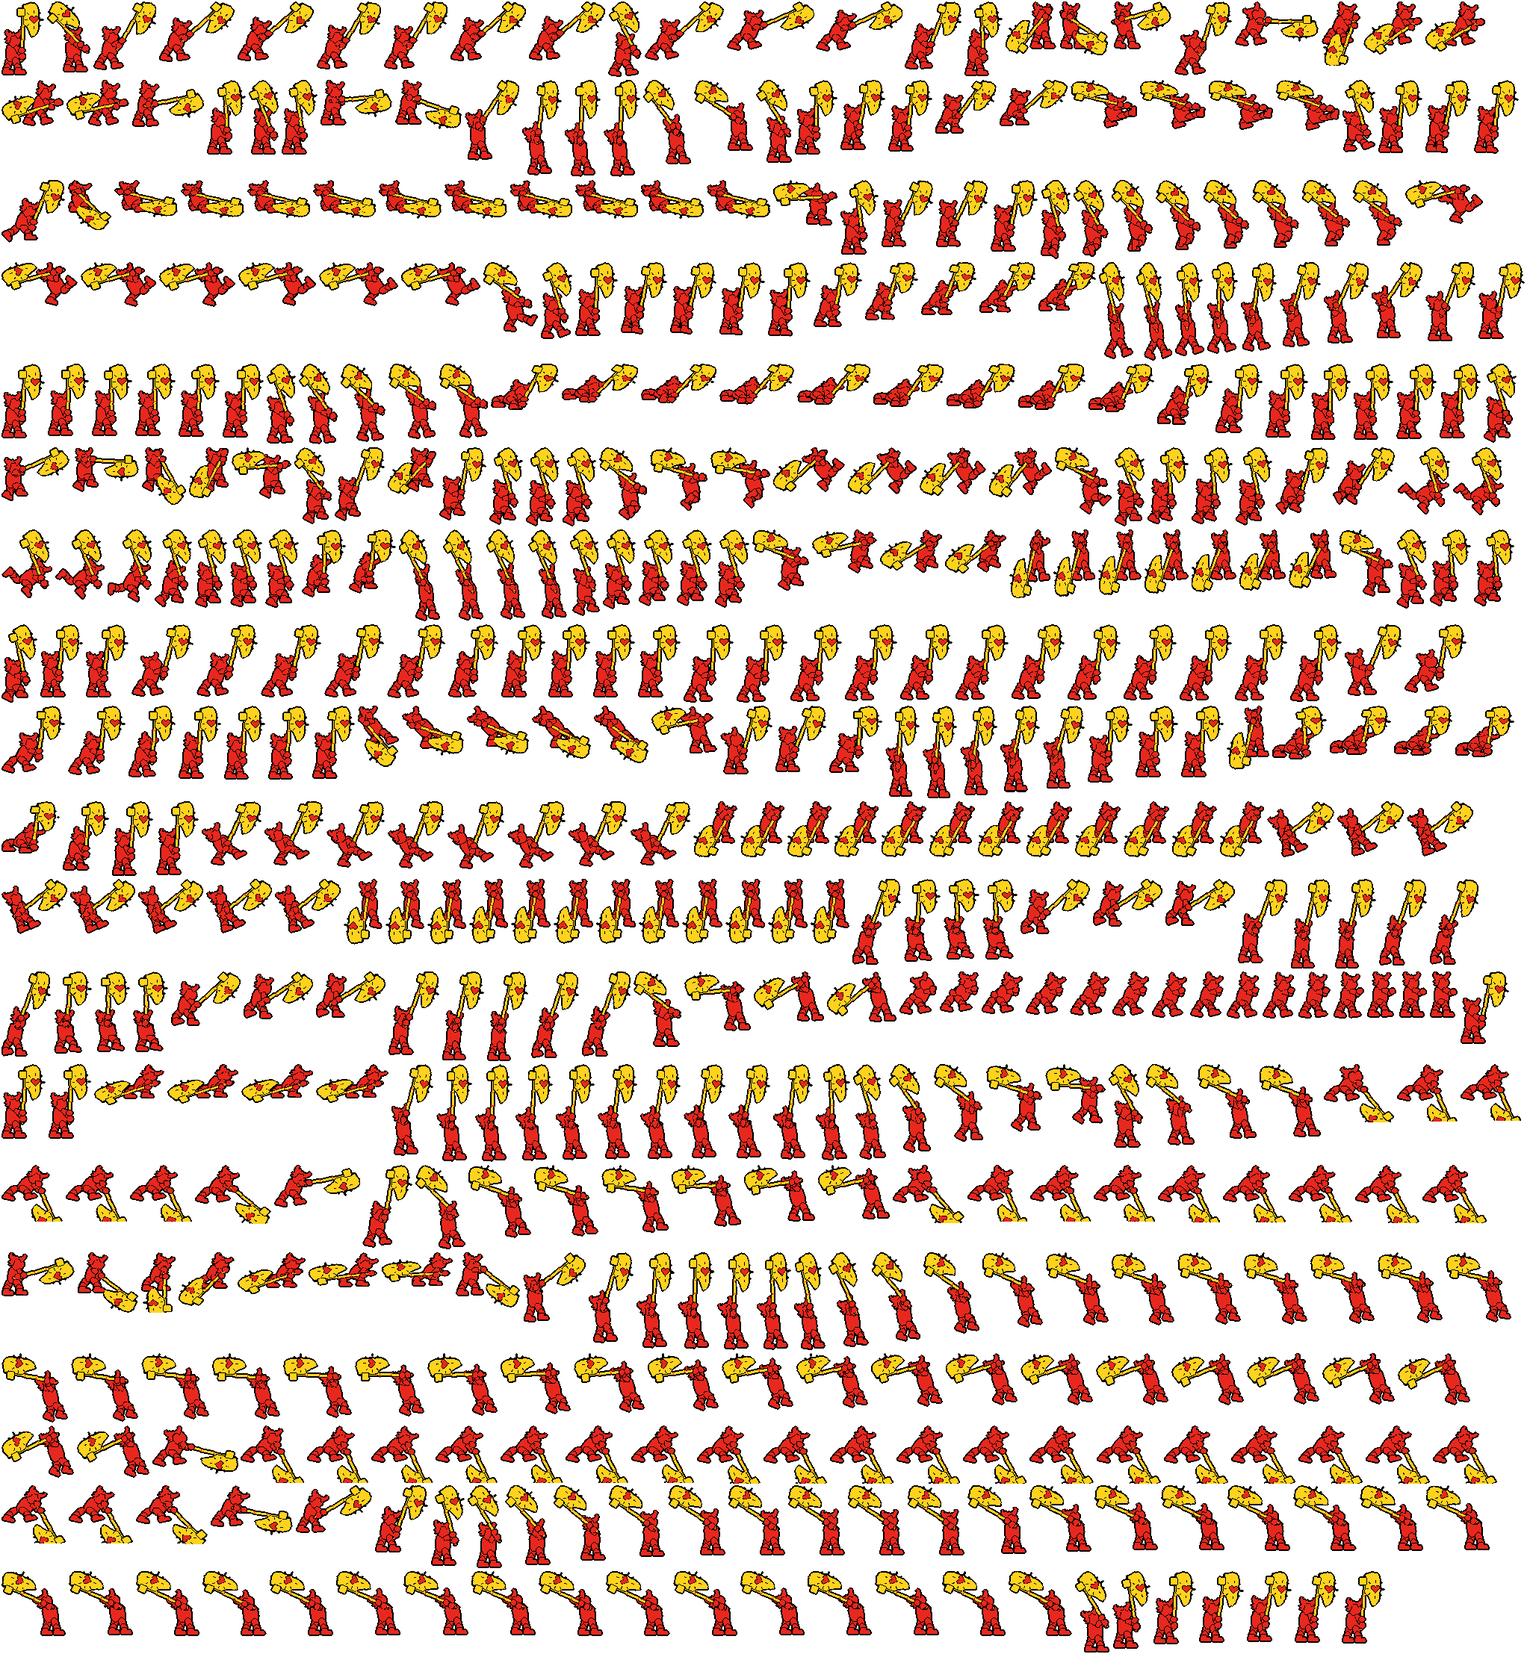
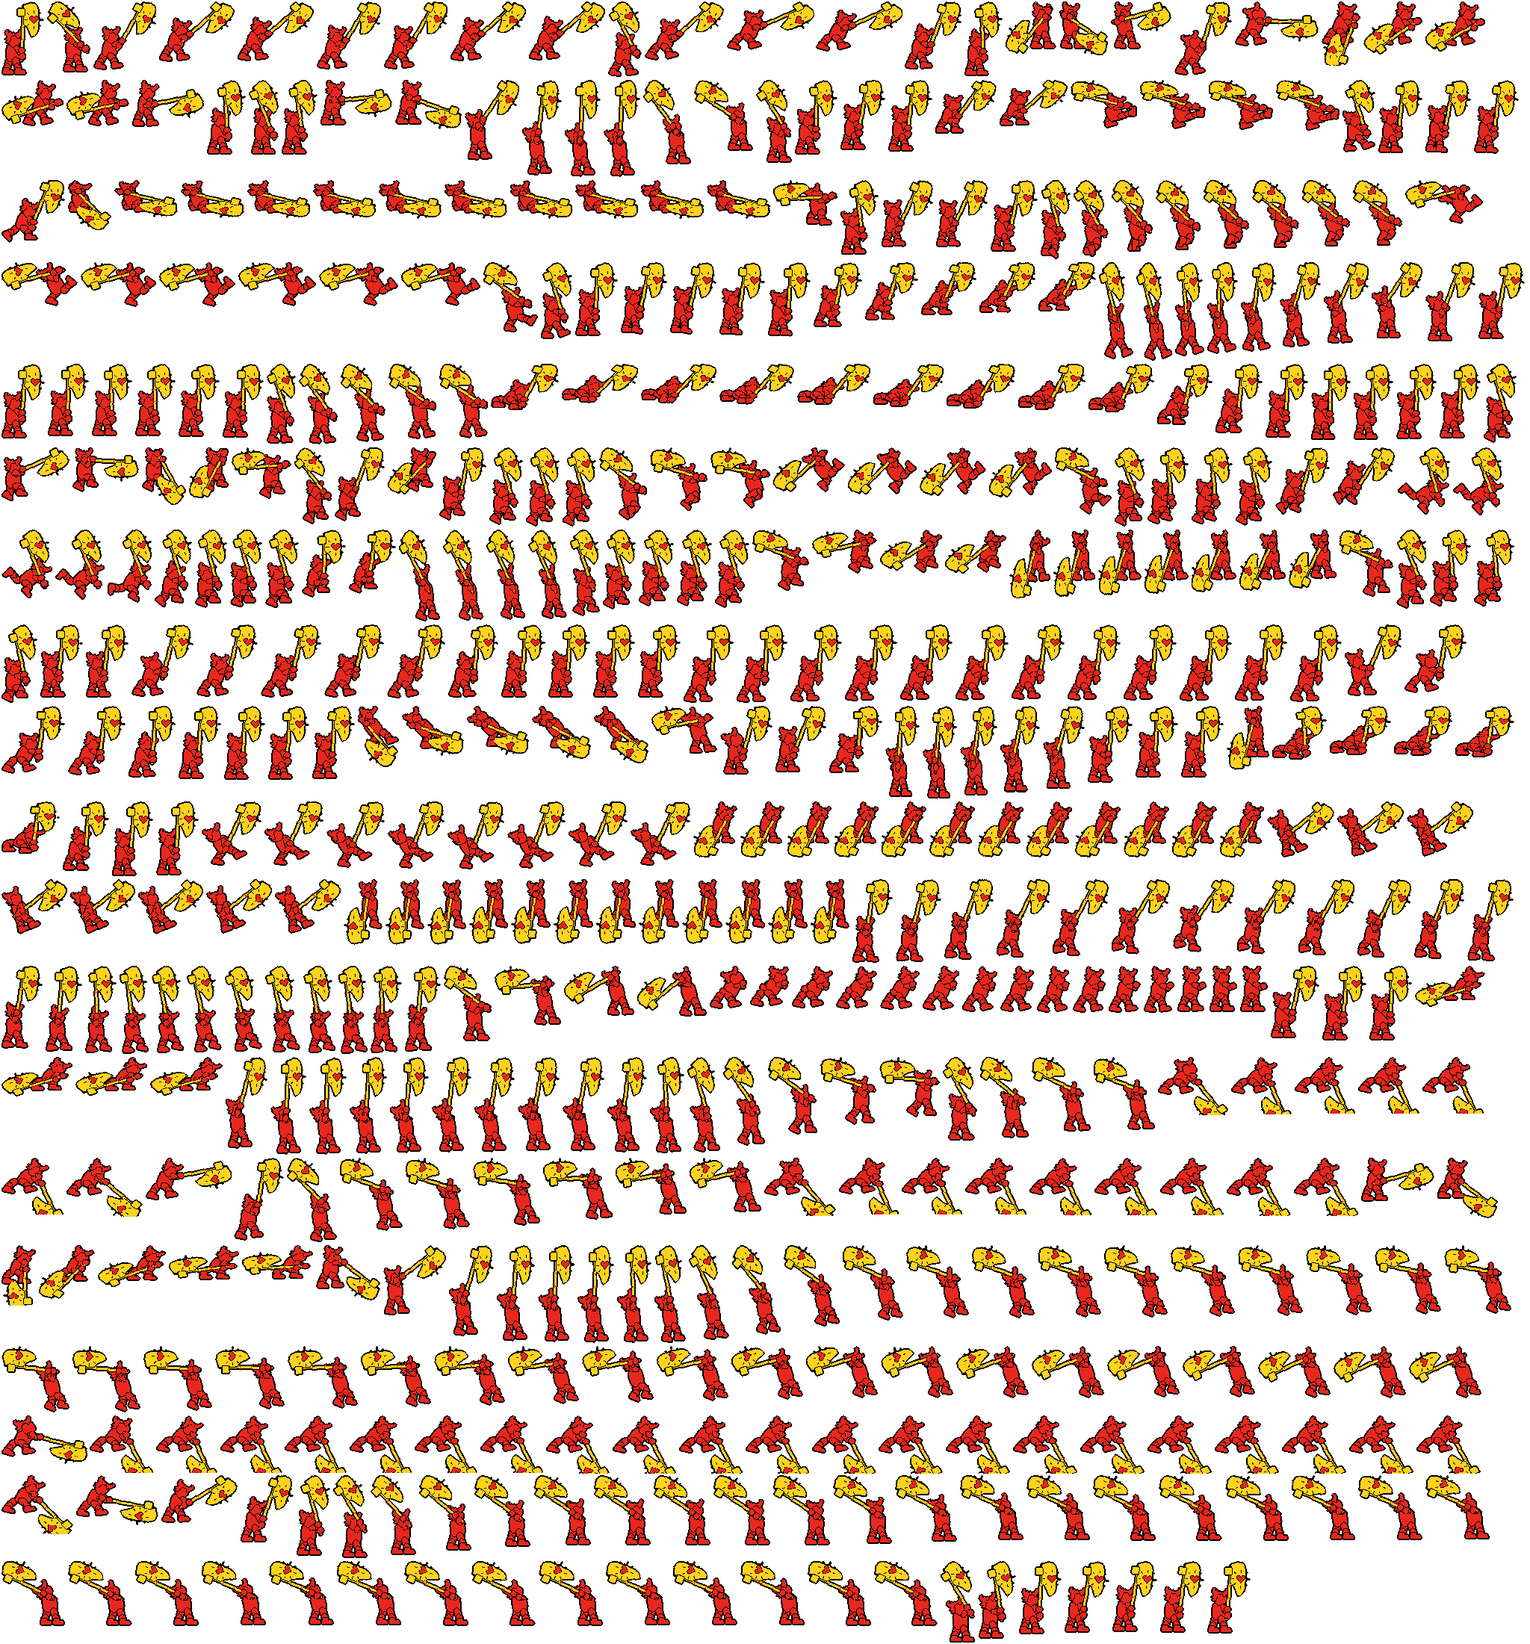
GNASH: fix the PSYCHO freeze, smooth POP & LOCK for POP LINES
- Fix: using a PSYCHO special in any match after the first one froze the game (the cut-in drew into
  lettering left over from the previous match); it's made fresh every match now
- POP LINES' neutral special is a smooth dance now - the axe held high, swaying side to side, knees
  kicking, head bobbing - instead of snapping between poses

Claude-Session: https://claude.ai/code/session_01K2bHiqG1reMF1nXkDzraJv

diff --git a/src/fighters/fighterGnash.js b/src/fighters/fighterGnash.js
@@ -592,10 +592,14 @@ export class FighterGnash {
     const wipe = t < 10 ? 1 - t / 10 : t > L - 10 ? (t - (L - 10)) / 10 : 0;
     if (wipe > 0) for (let y = 0; y < H; y += 40) for (let x = 0; x < W; x += 40) { const r = ((x * 7 + y * 13) % 100) / 100; if (r < wipe) { o.fillStyle(r < wipe * 0.5 ? 0x000000 : n, 1); o.fillRect(x, y, 40, 40); } }
   }
-  /** The cut-in's arcade lettering (made once, on the UI layer). */
+  /**
+   * The cut-in's arcade lettering and its own drawing layer (made once per match, on the UI layer). The match scene
+   * object is reused from match to match, so a set left from an earlier match (destroyed with it) is made afresh -
+   * drawing into the dead one froze the game the second time anyone used a PSYCHO move.
+   */
   psychoCutText() {
     const m = this.match;
-    if (!m.psychoTexts) {
+    if (!m.psychoTexts || !m.psychoTexts.g.scene || !m.psychoTexts.top.scene) {
       const mk = (x, y, size, col) => { const t = m.add.text(x, y, '', { fontFamily: FONT, fontSize: size + 'px', color: col, stroke: '#14042a', strokeThickness: 4 }).setOrigin(0.5).setDepth(46).setVisible(false); m.addUI(t); return t; };
       const g = m.add.graphics().setDepth(44); m.addUI(g);
       m.psychoTexts = { g, top: mk(320, 22, 8, '#ffffff'), blink: mk(452, 150, 12, '#3af0ff'), foot: mk(320, 340, 7, '#ffd23f') };
@@ -605,7 +609,7 @@ export class FighterGnash {
   /** The cut-in is over: its lettering away, the big text back as it was. */
   endPsychoCut() {
     const m = this.match;
-    if (m.psychoTexts) { for (const k in m.psychoTexts) if (k !== 'g') m.psychoTexts[k].setVisible(false); m.psychoTexts.g.clear(); }
+    if (m.psychoTexts && m.psychoTexts.g.scene) { for (const k in m.psychoTexts) if (k !== 'g') m.psychoTexts[k].setVisible(false); m.psychoTexts.g.clear(); }
     const b = m.bigText;
     if (b && b.psycho) { b.psycho = false; b.setText('').setFontSize(28).setAlpha(1).setColor('#ffffff').setShadow(0, 0, '#000000', 0).setPosition(320, 150).setDepth(20); }
   }

diff --git a/src/scenes/MatchScene.js b/src/scenes/MatchScene.js
@@ -101,6 +101,7 @@ export class MatchScene extends Phaser.Scene {
   create(data={}) {
     this.soulBattle=data.soulBattle&&soulEncounter(data.soulBattle.soulId)?data.soulBattle:null;this.soulEncounter=this.soulBattle?soulEncounter(this.soulBattle.soulId):null;this.resultSent=false;
     this.sys.settings.data={};
+    this.psychoCut = null; this.psychoTexts = null;   // (GNASH's PSYCHO cut-in: never carried over from the last match - its objects died with it)
     this.bossFight = data.boss || null; this.bossOutcome = null; this.cardPainted = false; this.bossCard = null;   // BOSS FIGHTS (src/data/bosses.js): { id, tier, setup }
     this.classic = data.classic || null;   // CLASSIC MODE (src/data/classic.js): { setup }; the result goes back to ClassicScene
     this.shopPreview=data.shopPreview||null;

diff --git a/tools/sprites/gnash_moves.py b/tools/sprites/gnash_moves.py
@@ -242,10 +242,16 @@ HOWL = (24, [k(i, HWL(1 if (i // 4) % 2 else -1), 'inout') for i in range(0, 25,
 # INFECTED.EXE - CORRUPT: snapping between broken poses every couple of frames, like a glitching sprite
 GL = [ROAR(1), mix(LOW, head=(40, 0, 0), torso=(30, 4, 2)), mix(ROAR(-1), head=(-60, 0, 0), root=(0, 3, 0, 1.12, 0.9)), mix(OVER, torso=(-30, -2, -1), head=(30, 0, 0)), mix(CHOP, head=(-20, 0, 0), root=(0, -3, 0, 0.9, 1.1)), mix(ROAR(1), torso=(4, 0, 0), head=(50, 0, 0))]
 CORRUPT = (24, [k(i, GL[(i * 5 // 3) % len(GL)], 'snap') for i in range(0, 25, 3)], 1, (), True, None)
-# POP LINES - POP & LOCK: snapping from one hard dance pose to the next every few frames, axe up, knees bent
-PL = [mix(HIGH, torso=(10, 0, 0), head=(20, 0, 0), **legs(30, -40, -10, 10)), mix(HIGH, torso=(-14, 0, 0), head=(-24, 0, 0), root=(0, 0, 2, 1.08, 0.92), **legs(-6, 6, -30, 40)),
-      mix(P(fupper=(20, 0, 0), ffore=(10, 0, 0), mic=(10, 0, 0)), torso=(14, 1, 0), head=(30, 0, 0), **legs(40, -60, -20, 20)), mix(HIGH, torso=(0, 0, 0), head=(0, 0, 0), root=(0, 0, -4, 0.94, 1.08), **legs(0, 0, 0, 0))]
-POPLOCK = (24, [k(i, PL[(i // 3) % len(PL)], 'snap') for i in range(0, 25, 3)], 1, (), True, None)
+# POP LINES - POP & LOCK: a smooth cartoon dance, like a figure in one of Haring's paintings - the axe held up high in
+# both hands, his body swaying side to side through one full loop, a knee kicking up on each side and his head bobbing
+# on every beat (sines on every 3rd tick, so it flows instead of snapping)
+def PL(i):
+    """POP & LOCK's pose at tick i of its 24-tick loop."""
+    a = i / 24 * 2 * math.pi; sway = math.sin(a); bob = abs(math.sin(2 * a)); kb, kf = max(0, sway), max(0, -sway)
+    return mix(HIGH, torso=(-4 + 14 * sway, 0, 0), head=(10 - 16 * sway + 10 * bob, 0, 0), hair=(-12 * sway, 0, 0),
+               fupper=(HIGH['fupper'][0] + 8 * sway, 0, 0), root=(3 * sway, 0, 3 * bob, 1 - 0.03 * bob, 1 + 0.03 * bob),
+               **legs(10 + 36 * kb, -12 - 50 * kb, -10 - 36 * kf, 12 + 50 * kf))
+POPLOCK = (24, [k(i, PL(i), 'linear') for i in range(0, 25, 3)], 1, (), True, None)
 # EXECUTIONER - THE VERDICT: the axe raised high and held there, his whole body trembling with the weight, head bowed
 VD = lambda s: mix(HIGH, torso=(4 + s, 0, 0), head=(24, 0, 0), root=(s * 0.4, 0, 0, 1.0, 1.0), **legs(16, -18, -16, 16, 4, -6))
 VERDICT = (24, [k(i, VD(1 if (i // 2) % 2 else -1), 'inout') for i in range(0, 25, 2)], 1, (), True, None)

diff --git a/src/fighters/AGENTS.md b/src/fighters/AGENTS.md
@@ -134,9 +134,9 @@ Every fighter has four (25/50/75/100 KOs scored with them by a human - `addKO` i
   PRESTO: PICK A CARD (`show.cards`: card hits stick cards on the foe, `o.cardMarks`, drawn beside their head), CARD TRICK (neutral, 3 cards), VANISHING ACT (side: `vanish` - invisible + intangible, reappears behind a marked foe; its TA-DA cashes the cards in via showBonus; once per jump via `usedDive`), DOVE LIFT (up, `drawDoves`), THE CABINET (down = `counter`, `drawCabinet`), THE GRAND ILLUSION (Limit `saw`: a cabinet + saw, `drawSaw`). Costumes ROYAL FLUSH (`royal`) / THE PHANTOM (`phantom`).
   ROUX: ORDER UP (`show.orders`: a ticket of 3 moves over his toque, `this.order`, `drawTicket` + `ticketText`; landing them in order = WELL DONE `wellDone` frames of bonus), FRYING PAN (neutral, `reflect` - Lacy's slamReflect), CLEAVER TOSS (side, boomerang, `cleaverOut`), FLAMBE (up, `drawFlambe`), HOT OIL (down, a puddle that slows and burns), FULL COURSE (Limit `feast`: a giant pot, `drawPot`). Costumes GRILL MASTER (`grill`) / PATISSIER (`pastry`, whisk; style names `chefGrill` / `chefPastry` are what Cleaver.render checks).
   **GNASH** (`gnash`, keys `gn_*`, on the select grid; Mason's design - the name is a placeholder Mason can change): a street punk kid in all-black clothes outlined in neon (studded jacket, ripped jeans, high-tops), a round black mask with neon X eyes and a neon zig-zag grin, neon horns - with a GIANT black axe (longer than he is tall, a glowing neon diamond in the blade) held in BOTH hands and dragged along the floor behind him when he idles and runs; a heavy (weight 1.2). His frames are bigger than everyone's: strips 160x96 (feet 80,90), moves 180x168 (feet 80,138 - more room in front for the axe - 22 to a row; NU's normals and his specials at every 2nd tick so it fits) - `originY` / `movesOrigin` / `frameSizes` in gnash.js, BootScene loads them separately. His normals are NU's with damage, knockback and reach (`REACH`) grown. Drawing `tools/sprites/gnash_draw.py`, animations `tools/sprites/gnash_moves.py` (table `gnMoves.js`, generated; mobile atlases `gn_*moves`), plus the same sheets WITHOUT the axe in `gnash/noaxe/[<costume>/]` (`def.noAxeDir`; loaded in the match by `loadNoAxe`, not at boot, no atlas). Def `gnash.js` (`show.kind: 'gnash'`, so it rides the showmen's hooks: fighterShow.js forwards showTick / showBonus / showLanded / drawShow to him), code `fighterGnash.js`:
-  PSYCHO meter (`psychoMeter`, `addPsycho` - from his hits and from MatchScene.applyHit when he's hurt; drawn on his player plate by `drawPsychoHud`, called from hud.js, text `this.psychoText`). Full -> the next special is its PSYCHO version: Fighter.tryCommon asks `gnashSpecial(c)` first, which calls `startPsycho(kind)`: `match.frozen` = `psycho.cut` frames and `match.psychoCut` = `{ f, t, name, color, color2, len }` (MatchScene ticks it in the freeze and calls `drawPsychoCut` - a retro arcade screen in the NEON ARCADE's colours: block wipe in/out, synthwave sun, scrolling grid, his mask as a big pixel sprite, 1UP / HI-SCORE / PSYCHO! / CREDIT lettering (`psychoCutText`: its own Graphics at depth 44 + texts at 46, over the HUD and training menu), scanlines; `endPsychoCut` clears it - the move's name on `bigText`, `bigText.psycho` marks it so MatchScene puts bigText back - and zooms the camera on him), then the move starts with `this.psychoMove` set (x`psycho.dmg`/`kb` via `gnashBonus`, `gnashArmour` = no flinching via `armoured()` in fighterLastSeen.js; cleared when he leaves the move). The meter also fills by itself while he SEETHEs (`psycho.seethe` a frame: 10 s from empty) and shows over his head too (a small bar with horns, top of `drawGnash`). The PSYCHO versions (`psycho.moves`): SCREAM (`psychoBlast` from 'seethe'), THROW (a GnashAxe with `psycho`: scale/speed, blast where it lands, `returning` to his hand), RISE (`psychoRise` from gnashTick: higher `riseV`, pillar pulses `pillar.every` / `ticks`, `pull`, `last`), METEOR (bigger `bounceV`, `stall`, `wave` + pillars in the shockwave).
+  PSYCHO meter (`psychoMeter`, `addPsycho` - from his hits and from MatchScene.applyHit when he's hurt; drawn on his player plate by `drawPsychoHud`, called from hud.js, text `this.psychoText`). Full -> the next special is its PSYCHO version: Fighter.tryCommon asks `gnashSpecial(c)` first, which calls `startPsycho(kind)`: `match.frozen` = `psycho.cut` frames and `match.psychoCut` = `{ f, t, name, color, color2, len }` (MatchScene ticks it in the freeze and calls `drawPsychoCut` - a retro arcade screen in the NEON ARCADE's colours: block wipe in/out, synthwave sun, scrolling grid, his mask as a big pixel sprite, 1UP / HI-SCORE / PSYCHO! / CREDIT lettering (`psychoCutText`: its own Graphics at depth 44 + texts at 46, over the HUD and training menu), scanlines; `endPsychoCut` clears it; the match scene object is reused between matches, so `psychoCutText` remakes the set if the old one was destroyed and MatchScene.create resets `psychoCut` / `psychoTexts` - drawing into last match's dead texts froze the game - the move's name on `bigText`, `bigText.psycho` marks it so MatchScene puts bigText back - and zooms the camera on him), then the move starts with `this.psychoMove` set (x`psycho.dmg`/`kb` via `gnashBonus`, `gnashArmour` = no flinching via `armoured()` in fighterLastSeen.js; cleared when he leaves the move). The meter also fills by itself while he SEETHEs (`psycho.seethe` a frame: 10 s from empty) and shows over his head too (a small bar with horns, top of `drawGnash`). The PSYCHO versions (`psycho.moves`): SCREAM (`psychoBlast` from 'seethe'), THROW (a GnashAxe with `psycho`: scale/speed, blast where it lands, `returning` to his hand), RISE (`psychoRise` from gnashTick: higher `riseV`, pillar pulses `pillar.every` / `ticks`, `pull`, `last`), METEOR (bigger `bounceV`, `stall`, `wave` + pillars in the shockwave).
   AXE THROW (`m.axe` from st_attack -> `throwAxe`): `GnashAxe` (showEntities.js) flies flat for `range` frames, falls, sticks in the floor it lands on (`land`, `stuck`: no hitbox, a neon arrow over it); `disarm` swaps `this.sheets` to the no-axe keys (`noAxeKeys`; milestone recolours go through skinTexture), `unarmed` (fists x`unarmed.dmg`, side/down special refused by gnashSpecial with NO AXE!), and gnashTick picks it up when he's within `unarmed.pickUp` of it (`rearm`; also on respawn and at the Limit). Off the stage: `axeLost` -> back after `unarmed.lostAfter`. The CPU walks (and jumps) to its stuck axe (cpu.js).
-  GROUND SPLITTER: `gnashStep` 'slam' bounces him into `downB2` at `bounceAt`; 'drop' holds him rising (t held), then hangs him for `stall` frames at the top (`dropStall`, `stallY`, neon gathering), then plunges (from `dropFrom`) and `gnashWave`s on landing - and BOUNCES back up: `downB2.bounce` (`k` = how much of the fall's speed he keeps, `minV` / `maxV`), so the higher he fell, the higher he goes. SEETHE loops while special is held (the CPU holds it 40-100 frames). Limit `executioner` -> `executionerLimit`. Attack effects in `drawGnash`: neon slash arcs along every active hitbox (`slashFx`), a neon X on whoever he hits (`xMarks`, from gnashLanded), blast rings (`ringFx`), sparks where the blade drags, the PSYCHO READY aura. Costumes BLOOD MOON (`bloodmoon`, style `gnashBlood`: red neon) / TOXIC (sheets in `gravestone/`, style `gnashStone`: acid green) + four milestones (THE NEON ROAD, colour groups `GNG`: black / neon / neon2), then three MAP COSTUMES at the end of his list, each drawn after a stage with its own idle and SEETHE animation (gnash_moves.py `skin_idle` / `skin_moves`), effects (`skinHit` + `drawGnashSkinFx`, list `gnSkinFx` - not `skinFx`, that's WHAT ONCE WAS's method), arrival (costumeEntrances.js) and outro (gnashOutros.js): HIGH SCORE (`arcade`, style `gnashArcade`, NEON ARCADE: synthwave jacket, striped-sun axe, sunset horns, scanlined mask, joystick pin; idle = head-bobbing with the axe across his shoulders, SEETHE = HEADBANG; arcade score pops + neon pixels), GRAVEMOON (`gravemoon`, `gnashMoon`, GRAVEMOON BRIDGE: a stone gargoyle - cracked stone mask with fangs and red eyes, stone horns, slate jacket in moonlight blue, red lantern on the belt, a full moon in a stone axe; idle = axe at the ready, looking up at the moon; SEETHE = HOWL; wisps, bats, a crescent moon on hits) and INFECTED.EXE (`infected`, `gnashVirus`, INFECTED.EXE: title-bar-blue jacket with a grey bevelled collar, ILOVEYOU heart, RED ROOM crosshair eyes, glitching horns, a Windows-window axe; idle = glitch twitches, SEETHE = CORRUPT; glitch blocks, error pop-ups on hits). Their neons are in `NEONS` at the top of fighterGnash.js. Plus POP LINES (`pop`, `gnashPop`: drawn like a figure in a Keith Haring painting - his whole body ONE flat red with no face and no shading, black lines only between parts, a heavy black line round the whole figure (gnash_moves.py `thicken`), and a flat yellow axe with a big red heart in a burst of black dashes; idle = dancing, SEETHE = POP & LOCK; black energy dashes pulse off him on the beat (a ring of them while he attacks), hits burst into flat cartoon stars; arrival `chalk-mural`, outro LINE DANCE with its own music `bgm_outro_pop`). And EXECUTIONER (`exec`, `gnashExec`: the headsman - black hood with ember eyes and stubby iron horns, leather jerkin and a blood-spotted apron, a broad bearded iron headsman's axe; idle = waiting with the axe up, picking who's next; SEETHE = THE VERDICT (axe held high, trembling); torch embers, cold smoke, crows; hits leave a dark red cleave mark (`cleave`) and big ones toll a bell; arrival `headsman`, outro THE VERDICT with its own music `bgm_outro_exec`).
+  GROUND SPLITTER: `gnashStep` 'slam' bounces him into `downB2` at `bounceAt`; 'drop' holds him rising (t held), then hangs him for `stall` frames at the top (`dropStall`, `stallY`, neon gathering), then plunges (from `dropFrom`) and `gnashWave`s on landing - and BOUNCES back up: `downB2.bounce` (`k` = how much of the fall's speed he keeps, `minV` / `maxV`), so the higher he fell, the higher he goes. SEETHE loops while special is held (the CPU holds it 40-100 frames). Limit `executioner` -> `executionerLimit`. Attack effects in `drawGnash`: neon slash arcs along every active hitbox (`slashFx`), a neon X on whoever he hits (`xMarks`, from gnashLanded), blast rings (`ringFx`), sparks where the blade drags, the PSYCHO READY aura. Costumes BLOOD MOON (`bloodmoon`, style `gnashBlood`: red neon) / TOXIC (sheets in `gravestone/`, style `gnashStone`: acid green) + four milestones (THE NEON ROAD, colour groups `GNG`: black / neon / neon2), then three MAP COSTUMES at the end of his list, each drawn after a stage with its own idle and SEETHE animation (gnash_moves.py `skin_idle` / `skin_moves`), effects (`skinHit` + `drawGnashSkinFx`, list `gnSkinFx` - not `skinFx`, that's WHAT ONCE WAS's method), arrival (costumeEntrances.js) and outro (gnashOutros.js): HIGH SCORE (`arcade`, style `gnashArcade`, NEON ARCADE: synthwave jacket, striped-sun axe, sunset horns, scanlined mask, joystick pin; idle = head-bobbing with the axe across his shoulders, SEETHE = HEADBANG; arcade score pops + neon pixels), GRAVEMOON (`gravemoon`, `gnashMoon`, GRAVEMOON BRIDGE: a stone gargoyle - cracked stone mask with fangs and red eyes, stone horns, slate jacket in moonlight blue, red lantern on the belt, a full moon in a stone axe; idle = axe at the ready, looking up at the moon; SEETHE = HOWL; wisps, bats, a crescent moon on hits) and INFECTED.EXE (`infected`, `gnashVirus`, INFECTED.EXE: title-bar-blue jacket with a grey bevelled collar, ILOVEYOU heart, RED ROOM crosshair eyes, glitching horns, a Windows-window axe; idle = glitch twitches, SEETHE = CORRUPT; glitch blocks, error pop-ups on hits). Their neons are in `NEONS` at the top of fighterGnash.js. Plus POP LINES (`pop`, `gnashPop`: drawn like a figure in a Keith Haring painting - his whole body ONE flat red with no face and no shading, black lines only between parts, a heavy black line round the whole figure (gnash_moves.py `thicken`), and a flat yellow axe with a big red heart in a burst of black dashes; idle = dancing, SEETHE = POP & LOCK (a smooth sway, axe held high, knees kicking - `PL(i)` in gnash_moves.py); black energy dashes pulse off him on the beat (a ring of them while he attacks), hits burst into flat cartoon stars; arrival `chalk-mural`, outro LINE DANCE with its own music `bgm_outro_pop`). And EXECUTIONER (`exec`, `gnashExec`: the headsman - black hood with ember eyes and stubby iron horns, leather jerkin and a blood-spotted apron, a broad bearded iron headsman's axe; idle = waiting with the axe up, picking who's next; SEETHE = THE VERDICT (axe held high, trembling); torch embers, cold smoke, crows; hits leave a dark red cleave mark (`cleave`) and big ones toll a bell; arrival `headsman`, outro THE VERDICT with its own music `bgm_outro_exec`).
   Rosemary's RED ARMY costume (shop, PAPERSPLEASE; `ss`-style drawing `draw_soviet()` in last_seen_draw.py, sheets `last-seen/soviet/`) has
   its own other form: skin `form: 'tank'` -> `LAST_SEEN.forms.tank` (TANK in lastSeen.js) instead of SEEN - a T-34-style tank with her in
   the hatch (`tools/sprites/rosemary_tank.py` -> `last-seen/tank/` + `lsTankMoves.js`): MG jab, CANNON neutral-B (`TankShell` in entities.js,
